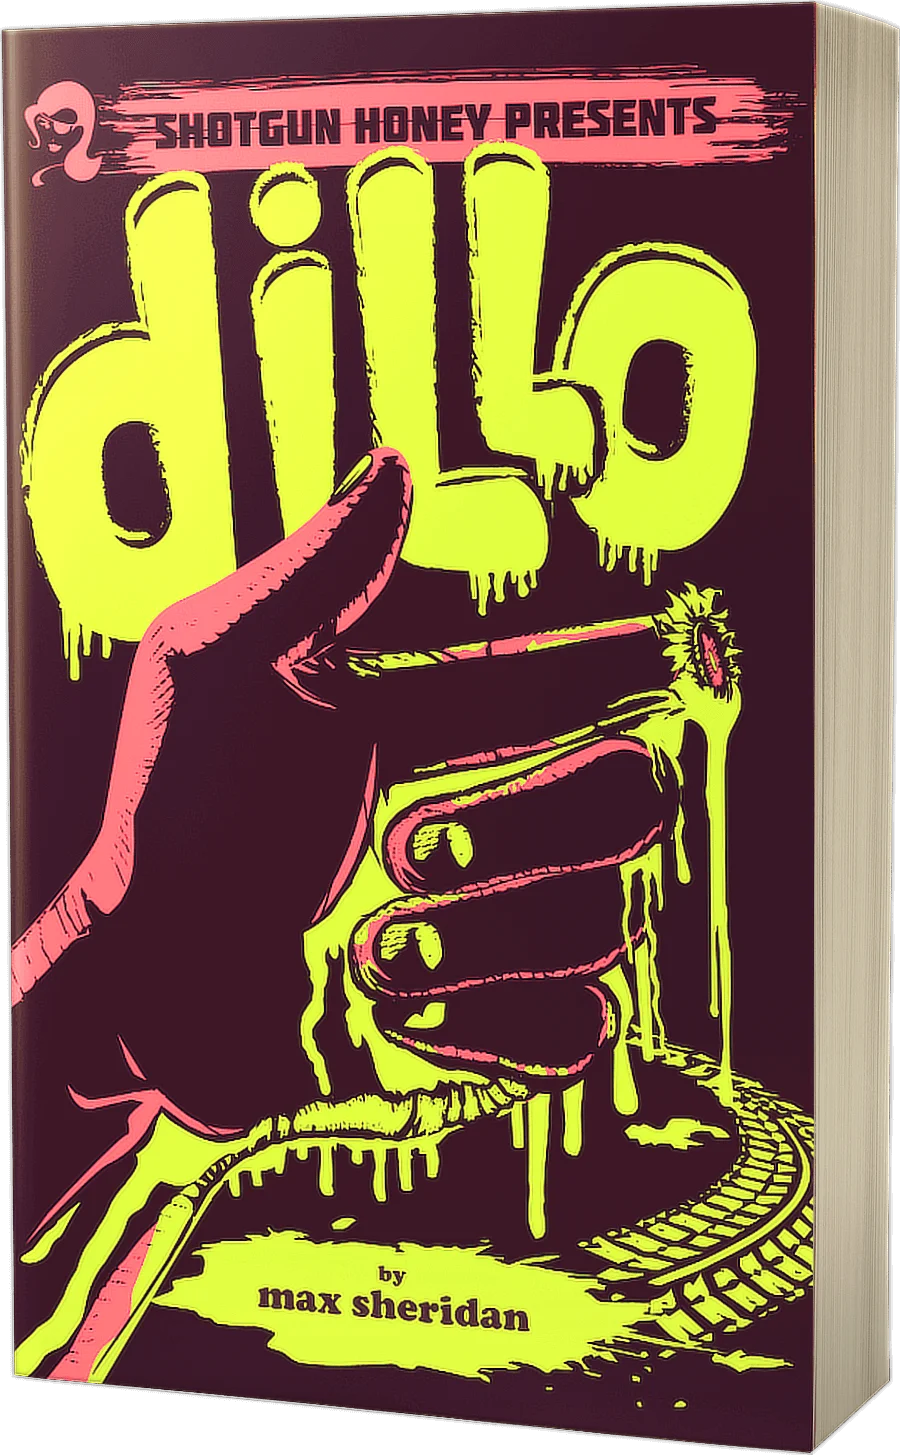
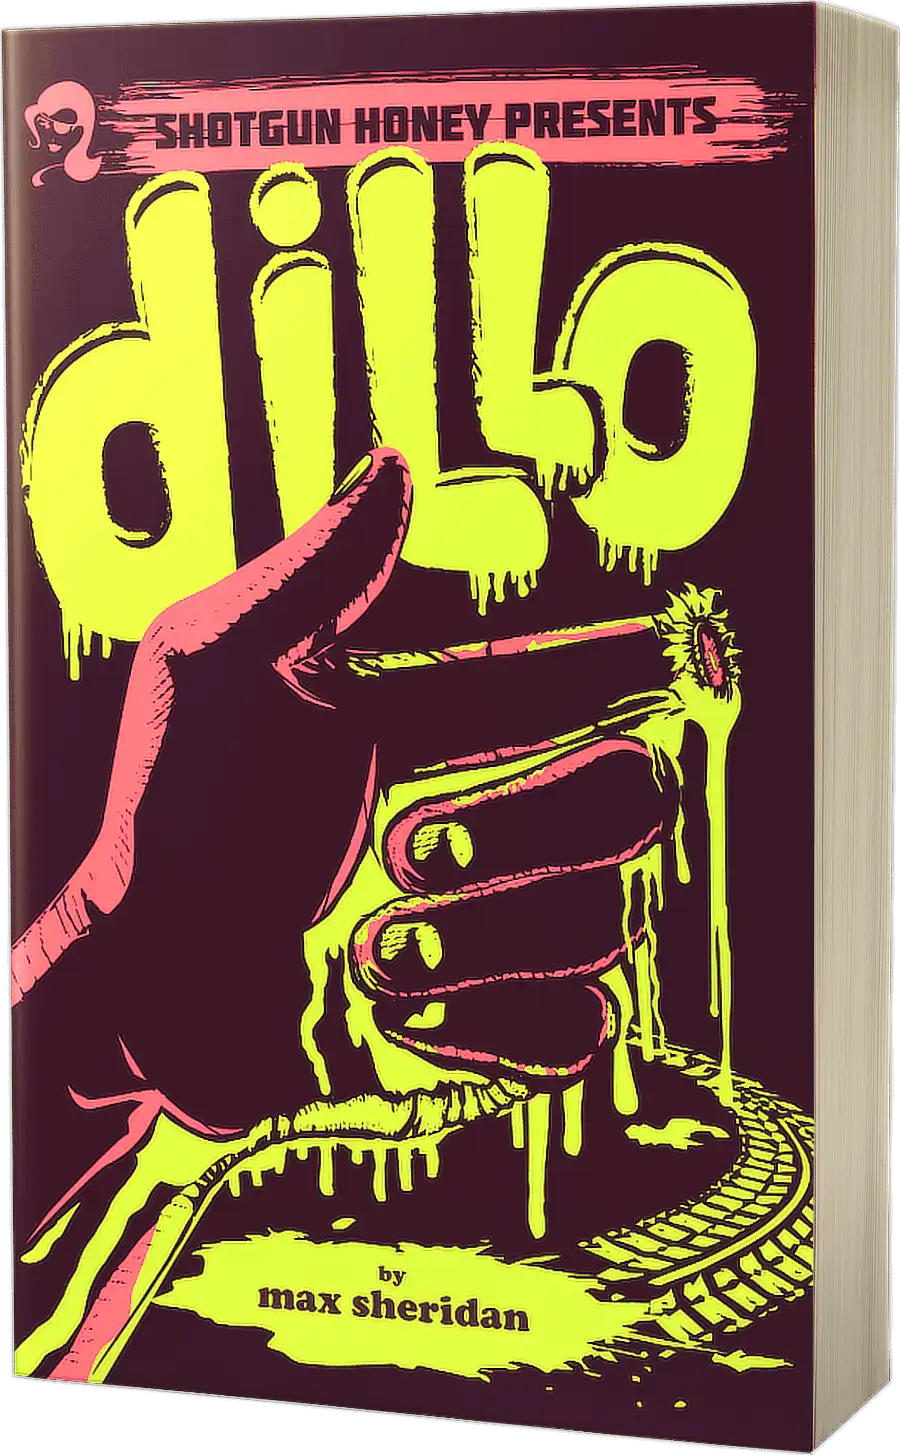
Recompress book covers, remove alt srcsets

diff --git a/index.html b/index.html
@@ -67,9 +67,7 @@
                     <div class="blurb-block feature">
                         <div class="book">
                             <img 
-                                src="assets/graphics/dillo_450.webp"
-                                srcset="assets/graphics/dillo_450.webp 450w, assets/graphics/dillo_900.webp 900w"
-                                sizes="(max-width: 480px) 450px, 900px"
+                                src="assets/graphics/dillo_900.webp"
                                 fetchpriority="high"
                                 width="450"
                                 height="728"
@@ -146,13 +144,11 @@
                     <div class="blurb-block feature">
                         <div class="book">
                             <img 
-                                src="assets/graphics/gs_450.webp"
-                                srcset="assets/graphics/gs_450.webp 450w, assets/graphics/gs_900.webp 900w"
-                                sizes="(max-width: 480px) 450px, 900px"
+                                src="assets/graphics/gs_900.webp"
                                 loading="lazy"
                                 width="450"
                                 height="728"
-                                alt="Dillo book cover">
+                                alt="God’s Speedboat book cover">
                         </div>
                         <div class="short">
                             <h2>Praise for God’s Speedboat</h2>
